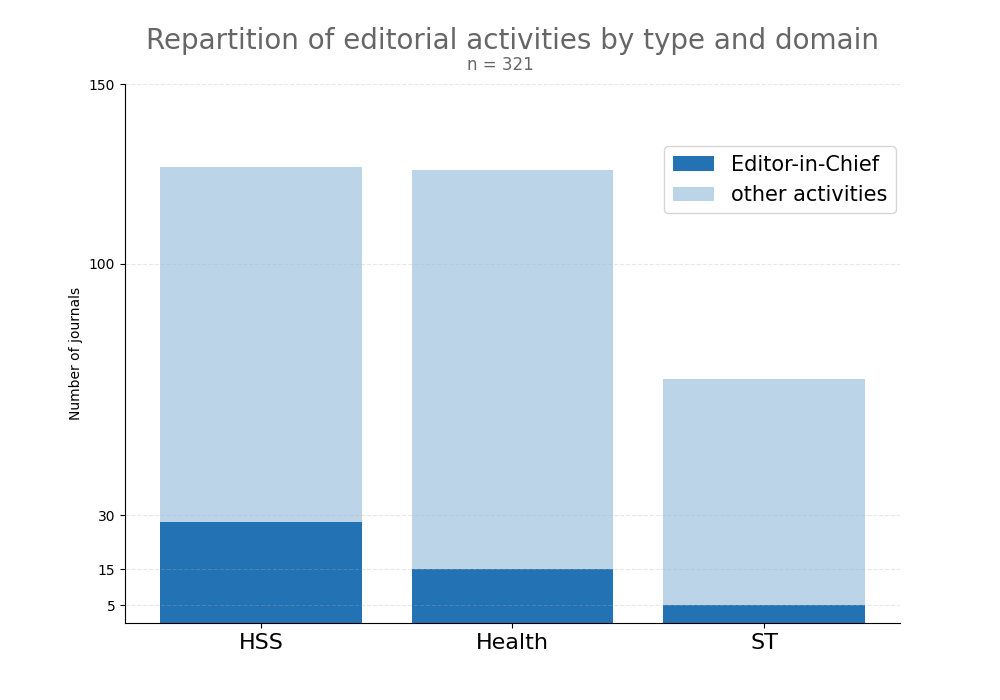
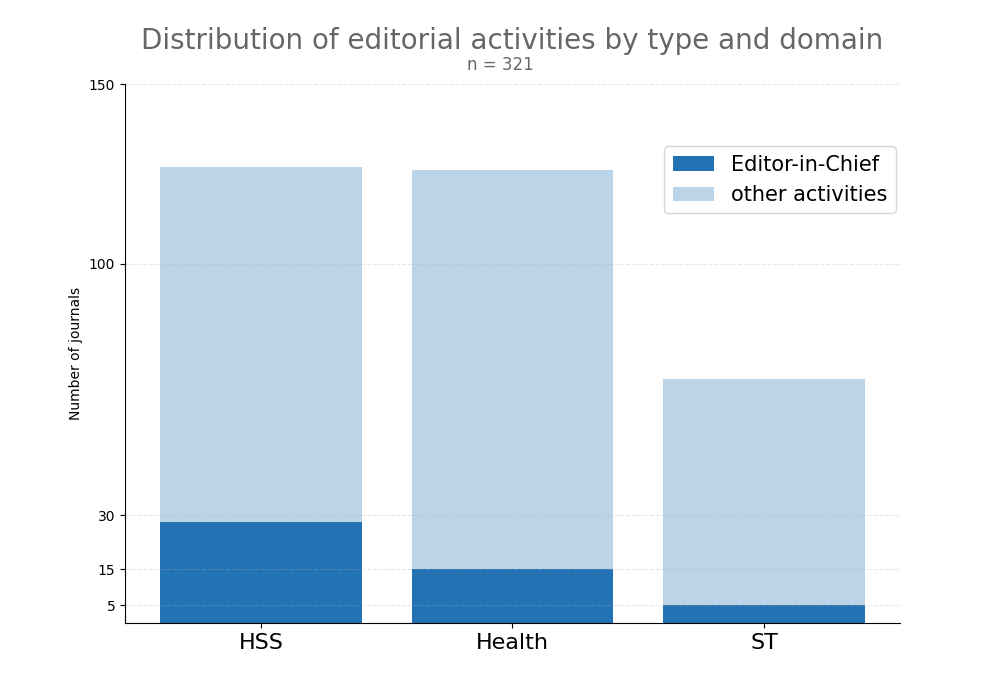
rename hist activities

Changed region(s): [[0.124, 0.03, 0.899, 0.09]]

diff --git a/produce-img/a__distribute_journals_and_activities_by_domain.py b/produce-img/a__distribute_journals_and_activities_by_domain.py
@@ -91,7 +91,7 @@ ax.set_xticklabels(df_hist.main_subject.tolist(), fontsize = 16)
 
 # legende
 ax.legend(loc = "upper left", bbox_to_anchor=(0.65, 0.95),  fontsize = 15, borderaxespad =1.7)
-plt.title("Repartition of editorial activities by type and domain", fontsize = 20, x = 0.5, y = 1.05, alpha = 0.6)
+plt.title("Distribution of editorial activities by type and domain", fontsize = 20, x = 0.5, y = 1.05, alpha = 0.6)
 plt.suptitle("n = " + str(df_hist.nb_journal.sum()), x = 0.5, y = 0.92,  alpha = 0.6)
 plt.savefig("hist-activities.png")
 # plt.show()
